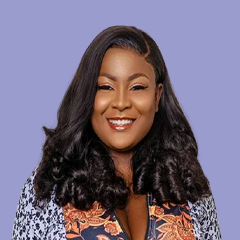
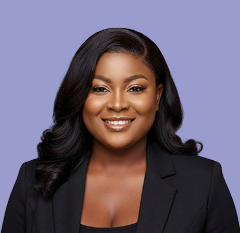
changed images

diff --git a/src/Pages/Home.jsx b/src/Pages/Home.jsx
@@ -182,7 +182,7 @@ const Home = () => {
 
       </div>
 
-      <div className="bg-[#fff] lg:my-10 mx-5 rounded-2xl md:shadow-2xl">
+      <div className="bg-[#fff] lg:my-10 mx-5 rounded-2xl">
         <div className="max-w-7xl mx-auto justify-center lg:p-[8] p-5">
           <h1 className="text-[#193D6F] font-campton lg:text-[1.5rem] text-[1.3rem] lg:mt-10 lg:ml-2 ml-1">
             About us
@@ -210,7 +210,7 @@ const Home = () => {
 
           <div className="flex lg:flex-row flex-col-reverse items-center justify-between lg:mt-10 mt-5 gap-7">
             <div className="space-y-5">
-              <div className="bg-[#f9f9f9] shadow-lg flex items-center gap-5 md:w-[80%] w-full lg:p-7 p-5 rounded-lg">
+              <div className="bg-[#f9f9f9] flex items-center gap-5 md:w-[80%] w-full lg:p-7 p-5 rounded-lg">
                 <img src={trusted} alt="" className="lg:w-fit w-20" />
                 <div>
                   <h1 className="text-[#080F10] lg:text-xl text-base font-semibold font-campton">
@@ -222,7 +222,7 @@ const Home = () => {
                 </div>
               </div>
 
-              <div className="bg-[#f9f9f9] shadow-lg flex items-center gap-5 md:w-[80%] w-full lg:p-7 p-5 rounded-lg">
+              <div className="bg-[#f9f9f9] flex items-center gap-5 md:w-[80%] w-full lg:p-7 p-5 rounded-lg">
                 <img src={strategic} alt="" className="lg:w-fit w-20" />
                 <div>
                   <h1 className="text-[#080F10] lg:text-xl text-base font-semibold font-campton">
@@ -235,7 +235,7 @@ const Home = () => {
                 </div>
               </div>
 
-              <div className="bg-[#f9f9f9] shadow-lg flex items-center gap-5 md:w-[80%] w-full lg:p-7 p-5 rounded-lg">
+              <div className="bg-[#f9f9f9] flex items-center gap-5 md:w-[80%] w-full lg:p-7 p-5 rounded-lg">
                 <img src={practical} alt="" className="lg:w-fit w-20" />
                 <div>
                   <h1 className="text-[#080F10] lg:text-xl text-base font-semibold font-campton">

diff --git a/src/Components/TeamExpert.jsx b/src/Components/TeamExpert.jsx
@@ -25,8 +25,6 @@ const teamMembers = [
   { name: "Jason Amadiegwu", role: "Creative Director", image: jason },
   { name: "Favour Atikpo", role: "Product Designer", image: favour },
   { name: "Otobong Ekanem", role: "Chef/Food Consultant", image: otobong },
-  { name: "Ajao oluwaseun", role: "Frontend Developer", image: ajao },
-  { name: "Gbolagade B. Mopelola", role: "Data Analyst", image: deborah },
 ];
 
 const TeamExpert = () => {
@@ -62,7 +60,7 @@ const TeamExpert = () => {
                   alt={member.name}
                   className="w-fit rounded-t-xl"
                 />
-                <div className="bg-white w-full p-3 rounded-b-xl shadow-md">
+                <div className="bg-white w-full p-3 rounded-b-xl">
                   <h2 className="font-campton font-semibold text-sm lg:text-lg text-center">
                     {member.name}
                   </h2>

diff --git a/src/Components/GetinTouch.jsx b/src/Components/GetinTouch.jsx
@@ -37,7 +37,7 @@ const GetinTouch = () => {
             <img src={contact} alt="" />
           </div>
 
-          <div class="rounded-lg bg-white p-5 shadow-2xl lg:p-12 lg:-mr-8">
+          <div class="rounded-lg bg-white p-5 shadow-lg lg:p-12 lg:-mr-8">
             <div className="mb-5">
               <h1 className="text-[#193D6F] font-campton font-medium lg:text-lg">
                 Get more updates
